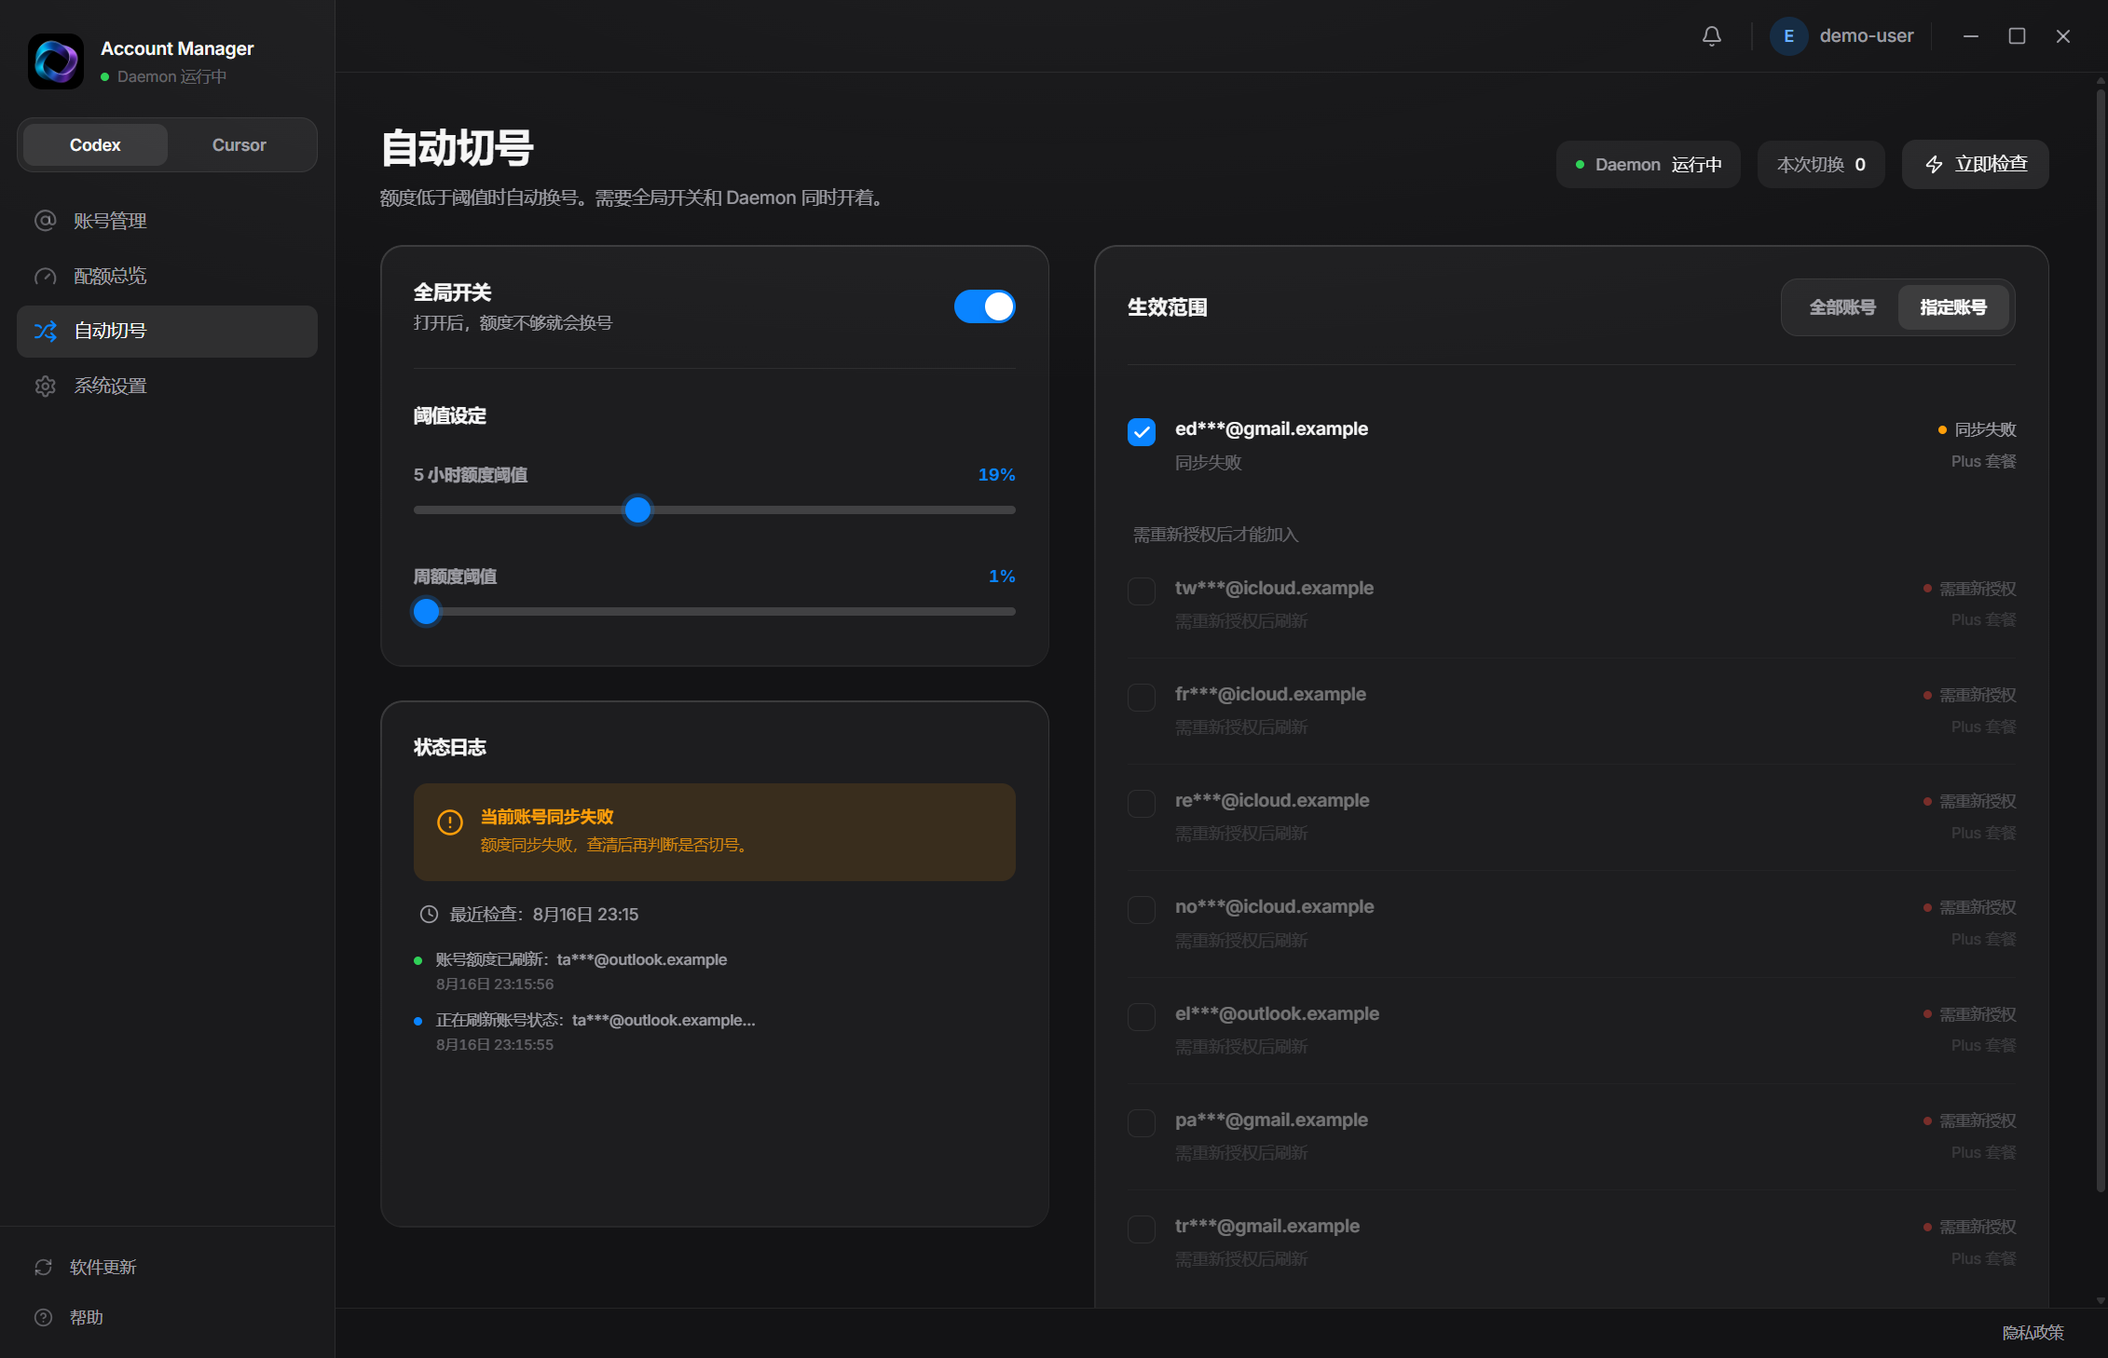
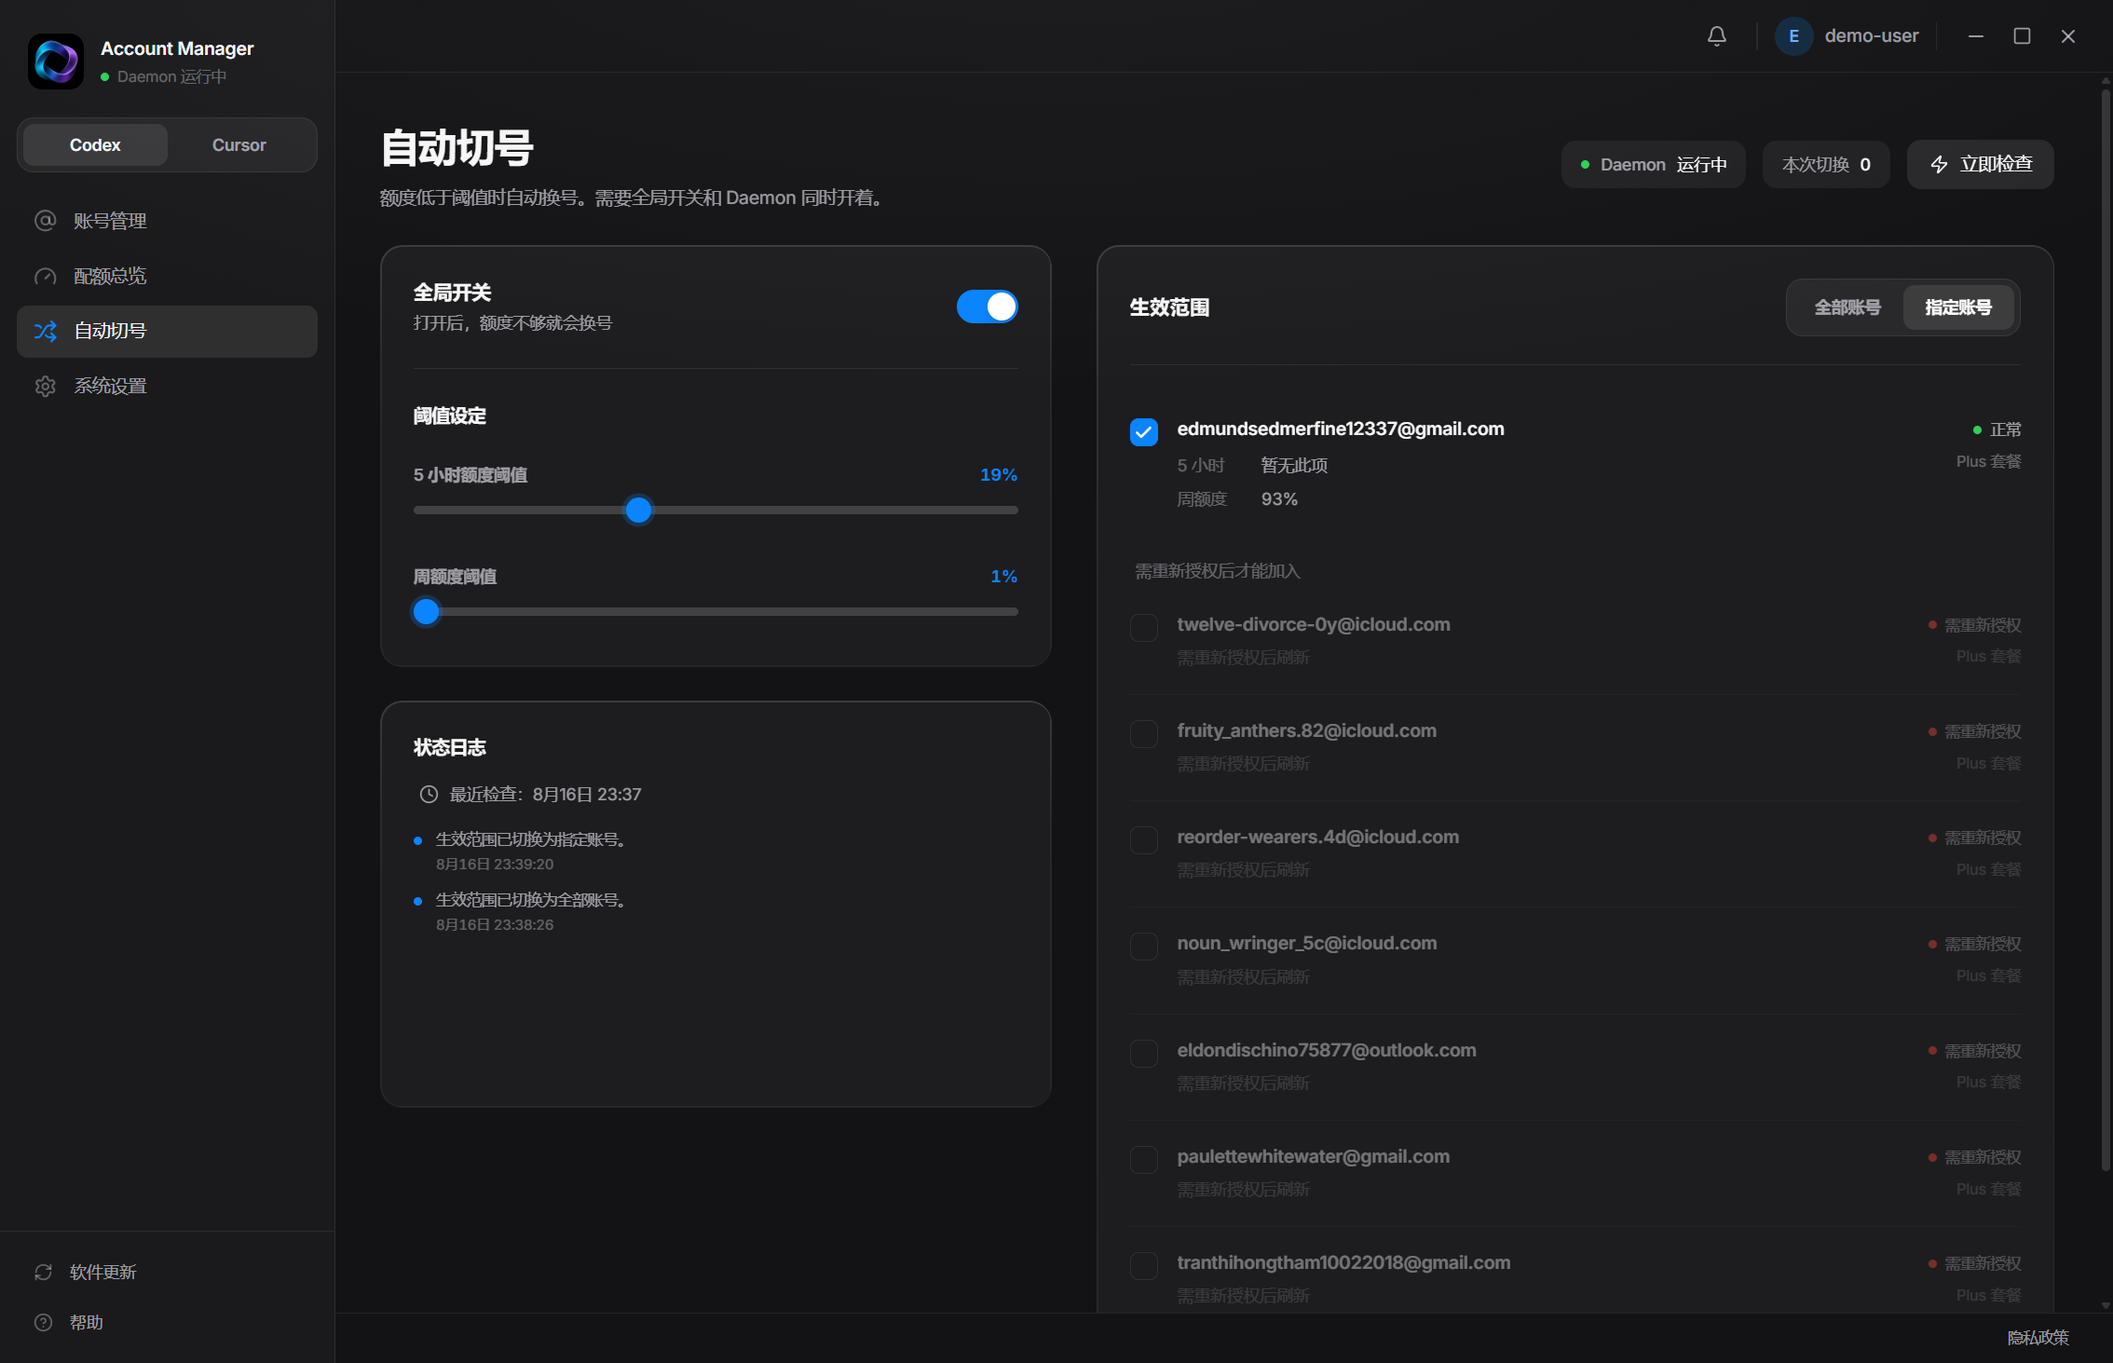
docs: tighten the GitHub homepage around both products
Rewrite the README as a Codex / Cursor product page, label the gallery by product, and keep the auto-switch screenshot from looking like a broken sync.

diff --git a/README.md b/README.md
@@ -9,51 +9,45 @@
 ![Windows](https://img.shields.io/badge/Windows-10%20%7C%2011-0078D4)
 [![License](https://img.shields.io/badge/code-MIT-2f855a)](LICENSE)
 
-[下载安装包](https://github.com/3xiaoshayu/codex-account-manager/releases) ·
+[下载 0.1.0-beta.25](https://github.com/3xiaoshayu/codex-account-manager/releases/tag/v0.1.0-beta.25) ·
 [故障排查](docs/troubleshooting.md) ·
 [隐私说明](docs/privacy.md) ·
 [English](README.en.md)
 
 </div>
 
-![Codex Account Manager 账号管理界面](docs/images/account-dashboard.png)
+![侧栏可在 Codex 和 Cursor 之间切换](docs/images/account-dashboard.png)
 
 > [!IMPORTANT]
-> 当前是预发布版本，安装包尚未代码签名。Windows 可能提示“未知发布者”。请只从本仓库
+> 预发布安装包尚未代码签名。Windows 可能提示“未知发布者”。请只从本仓库
 > [Releases](https://github.com/3xiaoshayu/codex-account-manager/releases) 下载，并核对 SHA-256。
 
 ## 这是什么
 
-Codex 和 Cursor 都多号之后，看剩余额度和换身份会变成一件琐事。这个应用把两个
-产品收进同一个 Windows 窗口：侧栏切换 Codex / Cursor，每个账号一张卡片，额度
-一眼能看完；要换号时，由它去处理登录态和官方客户端。
+侧栏切换 **Codex** / **Cursor**。每个账号一张卡片，额度一眼能看完；要换号时，由它去处理登录态和官方客户端。账号和 token 只留在这台电脑上。
 
-它不会改任何账号的额度上限。自动切号只在你保存的 **Codex** 账号里选一个还能用
-的。Cursor 可以看额度、续登录、手动切号，暂不参与自动切号。
+它不会提高额度上限。自动切号只在你保存的 Codex 账号里选一个还能用的。Cursor 可以看额度、续登录、手动切号，暂不自动换号。
 
-## 能做什么
+## 现在能做
 
-- **两个产品** — 侧栏在 Codex 和 Cursor 之间切换。账号、配额和桌面额度镜跟着当前产品走。
-- **账号卡片** — Codex 显示 5 小时 / 周额度；Cursor 显示套餐、Auto 和 API。可以搜索、筛选，也可以添加、刷新、切换、重新授权或删除。顶栏显示当前邮箱，点击即可复制。
-- **配额总览** — 所有账号的用量放在一页。读不到额度时显示为未知或「暂无此项」，不会写成 0。
-- **自动切号** — 本地 Daemon 按你设的阈值换到下一个可用 Codex 账号。关掉主窗口也不会停。Cursor 暂不参与。
-- **关窗进托盘** — 点叉是收到托盘。左键托盘图标可再打开窗口；要退出，用托盘菜单里的「退出」。
-- **桌面额度镜** — 桌面上的小环表。Codex 是 5 小时套周额度，Cursor 是 Auto 和 API 一对圆。可以翻页预览、置顶、刷新，也可以从这里切号。
-- **只留在本机** — 账号和 token 存在这台电脑上，token 用 Windows DPAPI 加密。没有遥测，也没有自建云。
+**Codex** — 5 小时 / 周额度，导入本机登录或打开网页授权，写入微软商店版 Codex。额度不够时，本地 Daemon 按你设的阈值换号；关掉主窗口也不会停。
 
-切 Codex 会先结束正在运行的官方 Codex 再拉起来。切 Cursor 会先关掉官方 Cursor
-再写登录库。换号前请等手头的任务跑完。
+**Cursor** — 套餐、Auto、API，导入本机登录或打开网页授权，写入官方 Cursor。官方当前登录会被标成当前账号。
+
+**共用** — 关窗进托盘，桌面额度镜，令牌检查，Windows DPAPI 加密。没有遥测，也没有自建云。
+
+切 Codex 会先结束正在运行的官方 Codex。切 Cursor 会先关掉官方 Cursor 再写登录库。换号前请等手头的任务跑完。
 
 ## 界面
 
 <table>
   <tr>
-    <td align="center"><sub><b>配额总览</b></sub></td>
-    <td align="center"><sub><b>自动切号</b></sub></td>
+    <td align="center"><sub><b>Cursor 配额</b></sub></td>
+    <td align="center"><sub><b>Codex 自动切号</b></sub></td>
   </tr>
   <tr>
-    <td><img src="docs/images/quota-overview.png" alt="配额总览" /></td>
-    <td><img src="docs/images/auto-switch.png" alt="自动切号" /></td>
+    <td><img src="docs/images/quota-overview.png" alt="Cursor 配额总览" /></td>
+    <td><img src="docs/images/auto-switch.png" alt="Codex 自动切号" /></td>
   </tr>
   <tr>
     <td align="center"><sub><b>系统设置</b></sub></td>
@@ -73,36 +67,36 @@ Codex 和 Cursor 都多号之后，看剩余额度和换身份会变成一件琐
   </tr>
 </table>
 
-截图里的邮箱已做遮盖，避免把真实账号写进仓库。
+截图里的邮箱已做遮盖。主图是 Cursor 账号页，侧栏可以切回 Codex。
 
 ## 安装
 
-需要 Windows 10 / 11（x64）。Codex 功能需要微软商店里的官方 Codex；Cursor 功能
-需要本机已安装官方 Cursor。可以只用其中一个产品。
+Windows 10 / 11（x64）。Codex 功能需要微软商店里的官方 Codex，Cursor 功能需要本机已安装官方 Cursor。可以只用其中一个。
 
 1. 从 [Releases](https://github.com/3xiaoshayu/codex-account-manager/releases) 下载 `Codex-Account-Manager-Setup-<版本>-x64.exe`
 2. 安装并打开
-3. 在侧栏选 Codex 或 Cursor，添加账号或导入本机已登录的官方客户端
+3. 在侧栏选 Codex 或 Cursor，导入本机已登录的官方客户端，或打开网页授权
 4. 回到应用即可看到卡片和额度
 
-ZIP 解压也能用，数据仍写在用户目录里，一般更推荐安装包。Beta 阶段请手动更新。
-
-校验安装包时，用 Release 附带的 `SHA256SUMS.txt`：
+ZIP 解压也能用，数据仍写在用户目录。Beta 请手动更新。
 
 ```powershell
 Get-FileHash ".\Codex-Account-Manager-Setup-<版本>-x64.exe" -Algorithm SHA256
 ```
 
+和同一条 Release 里的 `SHA256SUMS.txt` 对照。
+
 ## 数据放在哪
 
-- 应用数据：`%USERPROFILE%\.codex-switch`
-- Codex 切号写入：`%USERPROFILE%\.codex\auth.json`（先备份为 `auth.json.bak`）
-- Cursor 切号写入：`%APPDATA%\Cursor\User\globalStorage\state.vscdb`
-- 网络请求发给 OpenAI / ChatGPT（Codex 登录、刷新、读额度）、Cursor（登录、刷新、读用量）和 GitHub（检查更新）
+| 位置 | 用途 |
+| --- | --- |
+| `%USERPROFILE%\.codex-switch` | 管理器自己的账号、配置和日志 |
+| `%USERPROFILE%\.codex\auth.json` | 切 Codex 时写入，先备份为 `auth.json.bak` |
+| `%APPDATA%\Cursor\User\globalStorage\state.vscdb` | 切 Cursor 时写入官方登录库 |
 
-DPAPI 防不住已经控制了当前 Windows 会话的人。更完整的说明见[隐私说明](docs/privacy.md)。
+网络请求只发给 OpenAI / ChatGPT、Cursor 和 GitHub。DPAPI 防不住已经控制了当前 Windows 会话的人，细节见[隐私说明](docs/privacy.md)。
 
-如果官方 Codex 登录的号和管理器当前号不一致，窗口里会出一条提示，可以选用官方那个号，或写回管理器选定的号。官方 Cursor 登录会被标成当前 Cursor 账号。
+官方 Codex 登录和管理器不一致时，窗口里会提示：采用官方那个号，或写回管理器选定的号。
 
 ## 从源码运行
 
@@ -131,11 +125,8 @@ npm start
 
 ## 说明
 
-这是独立的社区项目，与 OpenAI、Anysphere / Cursor 没有隶属或背书关系。OpenAI、
-Codex、ChatGPT、Cursor 是各自权利人的商标。
+独立社区项目，与 OpenAI、Anysphere / Cursor 没有隶属或背书关系。OpenAI、Codex、ChatGPT、Cursor 是各自权利人的商标。
 
-请只管理你拥有或被明确授权使用的账号。生产环境的 API 负载请走官方 Platform API。
-
-目前仅支持 Windows x64。预发布阶段，存储格式和额度解析都可能调整。
+请只管理你拥有或被明确授权使用的账号。目前仅支持 Windows x64。预发布阶段，存储格式和额度解析都可能调整。
 
 代码使用 [MIT License](LICENSE)。图标与安装向导图见 [ASSET_LICENSE.md](ASSET_LICENSE.md)。

diff --git a/README.en.md b/README.en.md
@@ -10,14 +10,14 @@ identity, and switching stay on your machine.
 ![Windows](https://img.shields.io/badge/Windows-10%20%7C%2011-0078D4)
 [![License](https://img.shields.io/badge/code-MIT-2f855a)](LICENSE)
 
-[Download](https://github.com/3xiaoshayu/codex-account-manager/releases) ·
+[Download 0.1.0-beta.25](https://github.com/3xiaoshayu/codex-account-manager/releases/tag/v0.1.0-beta.25) ·
 [Troubleshooting](docs/troubleshooting.md) ·
 [Privacy](docs/privacy.md) ·
 [简体中文](README.md)
 
 </div>
 
-![Codex Account Manager account view](docs/images/account-dashboard.png)
+![The sidebar switches between Codex and Cursor](docs/images/account-dashboard.png)
 
 > [!IMPORTANT]
 > This is a prerelease. The installer is not code-signed yet, so Windows may
@@ -27,25 +27,27 @@ identity, and switching stay on your machine.
 
 ## What this is
 
-Once you have more than one Codex or Cursor account, checking remaining quota
-and changing identity gets tedious. This app puts both products in a single
-Windows window: the sidebar switches Codex / Cursor, one card per account,
-quotas you can read at a glance, and switching that updates the official
-client for you.
+The sidebar switches **Codex** / **Cursor**. One card per account, quotas you
+can read at a glance, and switching that updates the official client. Accounts
+and tokens stay on this PC.
 
 It cannot raise anyone's limits. Automatic switching only chooses among the
-**Codex** accounts you saved. Cursor can show usage, refresh login, and switch
+Codex accounts you saved. Cursor can show usage, refresh login, and switch
 manually; it stays out of auto-switch.
 
-## What you can do
+## What it does
 
-- **Two products** — the sidebar switches Codex and Cursor. Accounts, quotas, and the desktop lens follow the current product.
-- **Account cards** — Codex shows 5-hour and weekly quota; Cursor shows the plan, Auto, and API. Search, filter, add, refresh, switch, reauthorize, or delete. The header shows the current mailbox; click it to copy.
-- **Quota overview** — every account on one page. A failed read shows as unknown or “not provided”, never as zero.
-- **Automatic switching** — a local daemon moves to the next usable Codex account at the threshold you set. Closing the main window does not stop it. Cursor stays out of auto-switch.
-- **Close to tray** — the close button hides the window. Click the tray icon to bring it back; choose **Exit** on the tray menu to quit.
-- **Desktop quota lens** — a small desktop ring. Codex nests the 5-hour and weekly windows; Cursor shows Auto and API as a pair. Page through accounts, pin, refresh, or switch from there.
-- **Local only** — accounts and tokens stay on this PC, with tokens encrypted by Windows DPAPI. No telemetry and no cloud service of ours.
+**Codex** — 5-hour and weekly quota, import the local login or sign in through
+the browser, and write the official Microsoft Store Codex app. When usage is
+low, a local daemon switches at the threshold you set. Closing the main window
+does not stop it.
+
+**Cursor** — plan, Auto, and API usage, import the local login or sign in
+through the browser, and write official Cursor. The official current login is
+marked as the current Cursor account.
+
+**Shared** — close to tray, a desktop quota lens, token checks, and Windows
+DPAPI. No telemetry and no cloud service of ours.
 
 Switching Codex stops the official Codex client and starts it again. Switching
 Cursor closes official Cursor and rewrites its login database. Let in-flight
@@ -55,12 +57,12 @@ work finish first.
 
 <table>
   <tr>
-    <td align="center"><sub><b>Quota overview</b></sub></td>
-    <td align="center"><sub><b>Automatic switching</b></sub></td>
+    <td align="center"><sub><b>Cursor quotas</b></sub></td>
+    <td align="center"><sub><b>Codex auto-switch</b></sub></td>
   </tr>
   <tr>
-    <td><img src="docs/images/quota-overview.png" alt="Quota overview" /></td>
-    <td><img src="docs/images/auto-switch.png" alt="Automatic switching" /></td>
+    <td><img src="docs/images/quota-overview.png" alt="Cursor quota overview" /></td>
+    <td><img src="docs/images/auto-switch.png" alt="Codex automatic switching" /></td>
   </tr>
   <tr>
     <td align="center"><sub><b>Settings</b></sub></td>
@@ -80,37 +82,43 @@ work finish first.
   </tr>
 </table>
 
-Emails in the screenshots are masked so real accounts are not published.
+Emails in the screenshots are masked. The hero is the Cursor account page; the
+sidebar switches back to Codex.
 
 ## Install
 
 Windows 10 or 11 (x64). Codex features need the official Microsoft Store Codex
-app. Cursor features need official Cursor installed. You can use either product
-on its own.
+app. Cursor features need official Cursor. You can use either product on its
+own.
 
 1. Download `Codex-Account-Manager-Setup-<version>-x64.exe` from [Releases](https://github.com/3xiaoshayu/codex-account-manager/releases)
 2. Install and open it
-3. Pick Codex or Cursor in the sidebar, then add an account or import the official login already on this PC
+3. Pick Codex or Cursor in the sidebar, then import the official login already on this PC or finish sign-in in the browser
 4. The card and quota should appear when you return
 
-The ZIP runs unpacked, but app data still lives in your user profile — the installer is the usual choice. Betas update manually.
-
-To verify a build, compare it with `SHA256SUMS.txt` from the same release:
+The ZIP runs unpacked; app data still lives in your user profile. Betas update
+manually.
 
 ```powershell
 Get-FileHash ".\Codex-Account-Manager-Setup-<version>-x64.exe" -Algorithm SHA256
 ```
 
+Compare that with `SHA256SUMS.txt` from the same release.
+
 ## Where data lives
 
-- App data: `%USERPROFILE%\.codex-switch`
-- Codex switching writes `%USERPROFILE%\.codex\auth.json` after saving `auth.json.bak`
-- Cursor switching writes `%APPDATA%\Cursor\User\globalStorage\state.vscdb`
-- Network calls go to OpenAI / ChatGPT (Codex sign-in, refresh, quota), Cursor (sign-in, refresh, usage), and GitHub (update checks)
+| Path | Use |
+| --- | --- |
+| `%USERPROFILE%\.codex-switch` | Manager accounts, settings, and logs |
+| `%USERPROFILE%\.codex\auth.json` | Written on a Codex switch, after `auth.json.bak` |
+| `%APPDATA%\Cursor\User\globalStorage\state.vscdb` | Official Cursor login written on a Cursor switch |
 
-DPAPI will not help if someone already controls your Windows session. Details are in [Privacy](docs/privacy.md).
+Network calls go to OpenAI / ChatGPT, Cursor, and GitHub. DPAPI will not help
+if someone already controls your Windows session. Details are in
+[Privacy](docs/privacy.md).
 
-If the official Codex login is not the identity the manager has selected, a banner lets you adopt the official account or write the managed one back. The official Cursor login is marked as the current Cursor account.
+If the official Codex login is not the identity the manager has selected, a
+banner lets you adopt the official account or write the managed one back.
 
 ## Running from source
 
@@ -143,11 +151,8 @@ This is an independent community project, not affiliated with or endorsed by
 OpenAI or Anysphere / Cursor. OpenAI, Codex, ChatGPT, and Cursor are trademarks
 of their respective owners.
 
-Only manage accounts you own or are authorized to use. Production API traffic
-belongs on the official platform APIs.
-
-Windows x64 only, for now. Storage and quota parsing may still change during
-prerelease.
+Only manage accounts you own or are authorized to use. Windows x64 only, for
+now. Storage and quota parsing may still change during prerelease.
 
 The code is [MIT](LICENSE). Icon and installer art are covered by
 [ASSET_LICENSE.md](ASSET_LICENSE.md).

diff --git a/ASSET_LICENSE.md b/ASSET_LICENSE.md
@@ -13,7 +13,7 @@ do not imply affiliation with or endorsement by OpenAI.
 ## Screenshots
 
 The screenshots under `docs/images/` (including the GitHub social preview
-image) are product images rendered with synthetic demo data.
+image) are product images from the live app, with email addresses masked.
 
 Third-party software and icon-library notices are listed in
 [THIRD_PARTY_NOTICES.md](THIRD_PARTY_NOTICES.md).
